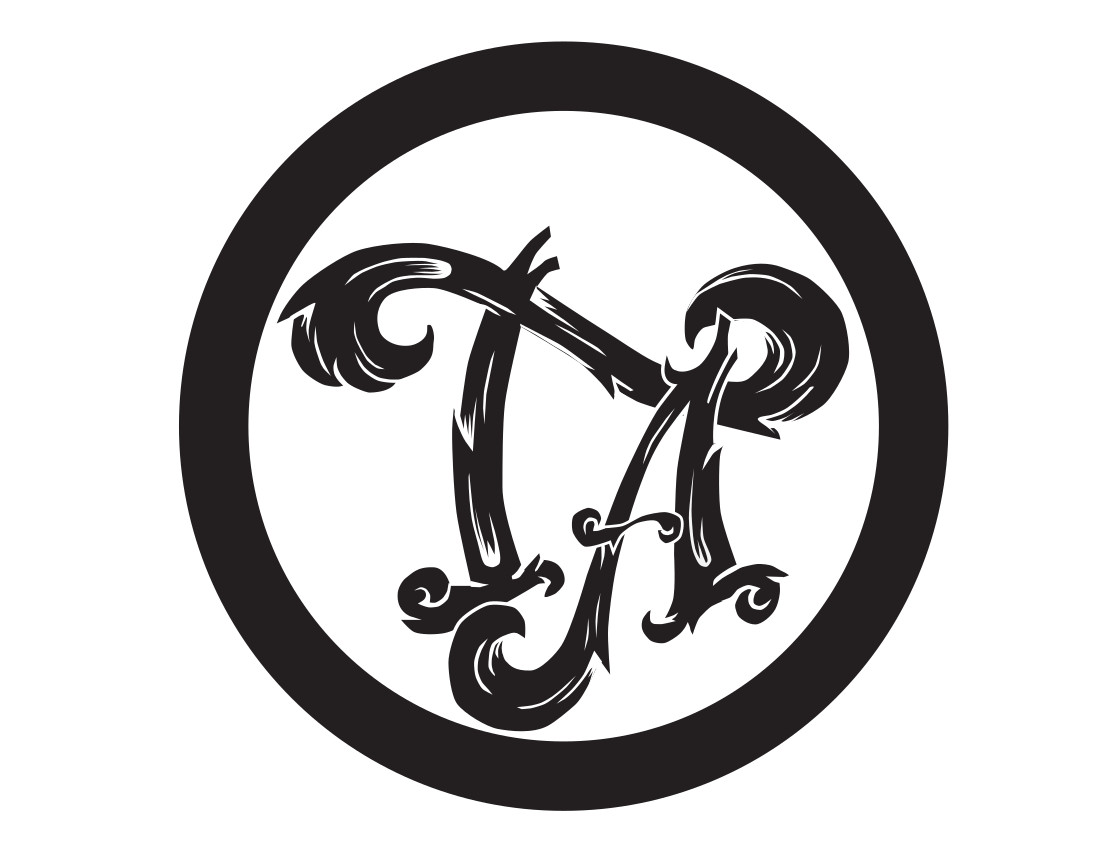
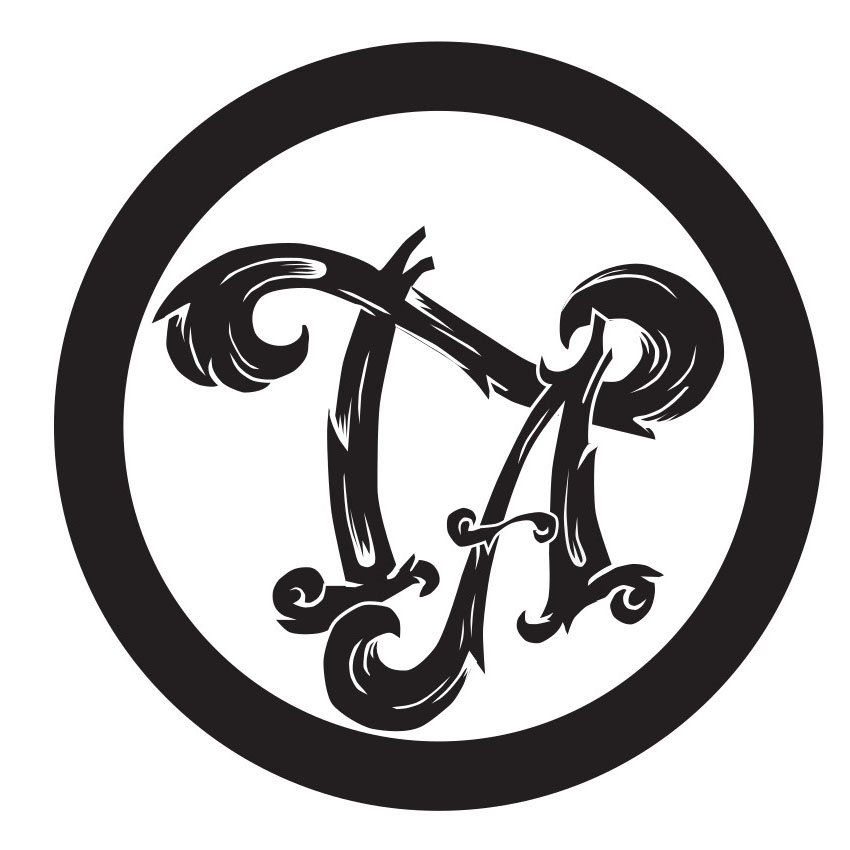
Added all social media links

diff --git a/style.css b/style.css
@@ -41,13 +41,13 @@ body {
 }
 
 .navbuttontable {
-	height:100px;
+	height:50px;
 	width: 100%;
 	margin: 0;
 	padding: 0;
 	background-color: black;
 	/*color: #6f00d1;*/
-	color: gray;
+	/*color: gray;*/
 }
 
 .content {

diff --git a/index.php b/index.php
@@ -8,7 +8,7 @@
 <head>
 	<meta charset='charset=utf-8'>
 	<link type="text/css" rel="stylesheet" href="style.css">
-	<link type="image/gif" rel="icon" href="images/OriginsCover.jpg">
+	<link type="image/gif" rel="icon" href="images/TA4.jpg">
 	<title>Trigger Armada</title>
 	<meta name="description" content="Trigger Armada - Home">
 	<meta name="author" content="Peder Schuller">
@@ -19,12 +19,30 @@
 	<table class="navbuttontable">
 		<tr>
 			<th><a class="two" href="index.php"><h2>Home</h2></a></a></th>
-			<th><a class="two" href="index.php"><h2>Shows</h2>(coming soon)</a></th>
-			<th><a class="two" href="index.php"><h2>Music</h2>(coming soon)</a></th>
-			<th><a class="two" href="index.php"><h2>Merch</h2>(coming soon)</a></th>
-			<th><a class="two" href="index.php"><h2>Media</h2>(coming soon)</a></th>
-			<th><a class="two" href="index.php"><h2>About</h2>(coming soon)</a></th>
-			<th><a class="two" href="index.php"><h2>Contact</h2>(coming soon)</a></th>
+			<th><a class="two" href="index.php"><h2>Shows</h2></a></th>
+			<th><a class="two" href="index.php"><h2>Music</h2></a></th>
+			<th><a class="two" href="index.php"><h2>Merch</h2></a></th>
+			<th><a class="two" href="index.php"><h2>Media</h2></a></th>
+			<th><a class="two" href="index.php"><h2>About</h2></a></th>
+			<th><a class="two" href="index.php"><h2>Contact</h2></a></th>
+		</tr>
+	</table>
+</div>
+<div class="header">
+	<table class="navbuttontable">
+		<tr>
+			<th><a href="https://www.facebook.com/TriggerArmada/">
+					<img src="images/FB-f-Logo__white_29.png" alt="Facebook" style="max-width: 100%; height: auto;"></a></th>
+			<th><a href="https://www.youtube.com/channel/UCDvGS1LygBKE5eOWaqdTBLw">
+					<img src="images/yt_icon_mono_dark.png" alt="YouTube" style="height: 29px; max-width: auto;"></a></th>
+			<th><a href="https://open.spotify.com/artist/62HJgVLPeoYT27dfPCDsXh">
+					<img src="images/Spotify_Icon_CMYK_White.png" alt="Spotify" style="height: 29px; max-width: auto;"></a></th>
+			<th><a href="https://itunes.apple.com/us/artist/trigger-armada/1294937470">
+					<img src="images/Apple_Music_Icon_wht.svg" alt="Apple Music" style="height: 29px; max-width: auto;"></a></th>
+			<th><a href="https://www.instagram.com/triggerarmada/">
+					<img src="images/IG_Glyph_Fill.png" alt="Instagram" style="height: 37px; max-width: auto;"></a></th>
+			<th><a href="https://twitter.com/TriggerArmada">
+					<img src="images/Twitter_Logo_Fill.png" alt="Twitter" style="height: 30px; max-width: auto;"></a></th>
 		</tr>
 	</table>
 </div>
